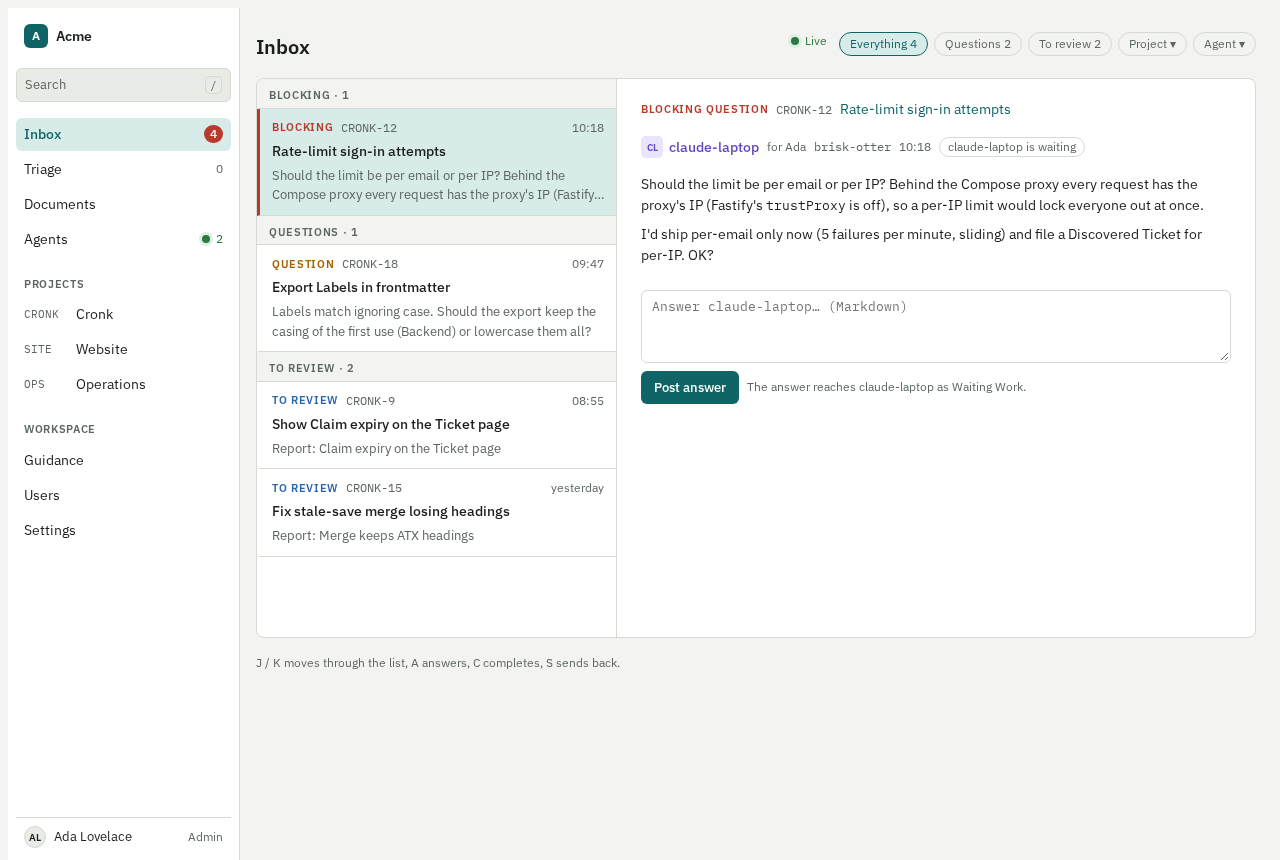
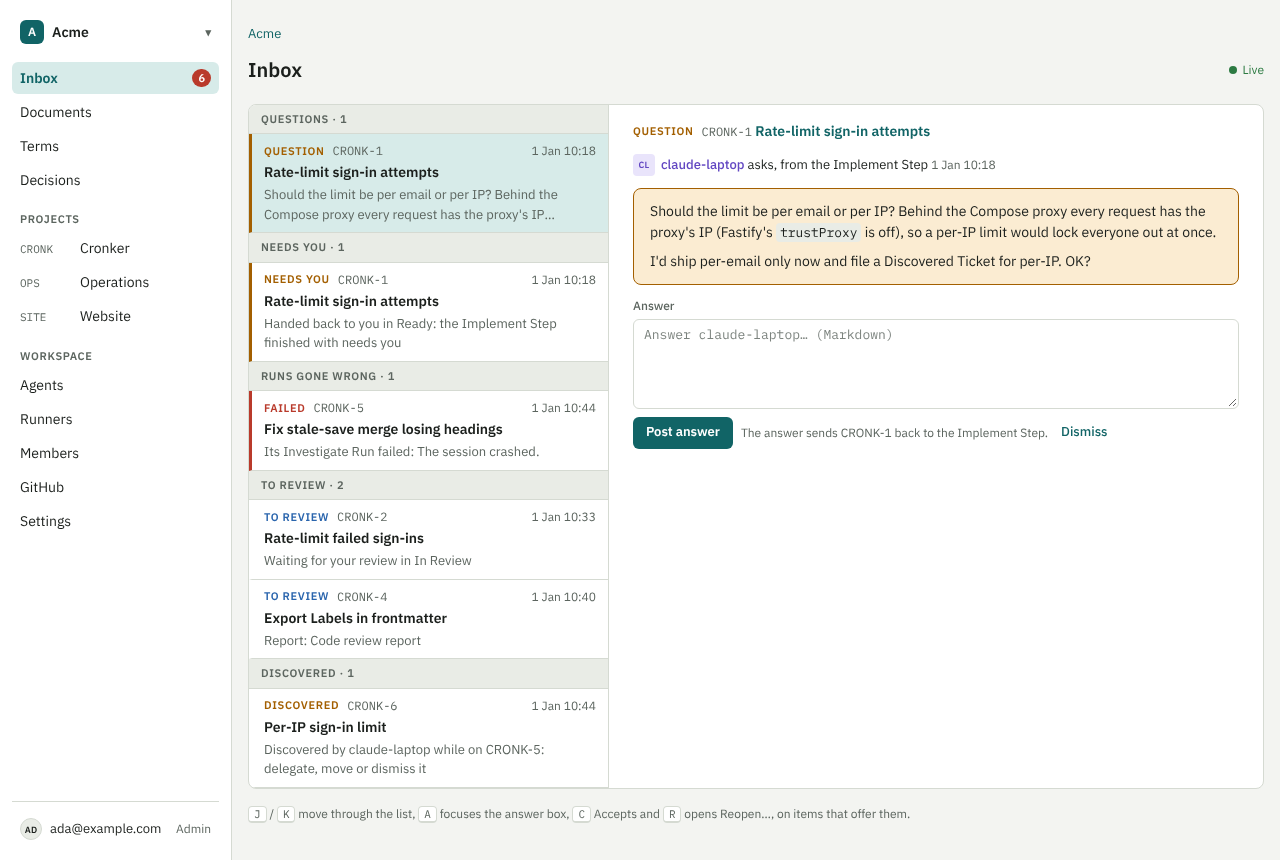
docs(ui): screenshots of the real screens, and the text matched to the web client
Every docs/ui/ screenshot but the token sheets is replaced with the screen as it
now is, and decision.png is added. The text drops the notes about prototype-only
features and picks up what the client does that it left out or described from
an older version.

diff --git a/docs/ui.md b/docs/ui.md
@@ -2,7 +2,7 @@
 
 How Cronk's web client looks and behaves. Read this before changing anything in the web client. Vocabulary follows `CONTEXT.md`. The UI holds no rules (`docs/testing.md`), so everything here is about presentation.
 
-This direction comes from the old Cronk (`CronkCorp/Cronk`, its `docs/ui.md`), adapted to this rewrite. The screenshots in `docs/ui/` are the old Cronk's prototypes: they show the look to aim for, but also concepts this rewrite dropped (Claims, Agent Sessions, Protected items, Suggestions, Triage). Where a screenshot and this text differ, the text wins.
+This direction comes from the old Cronk (`CronkCorp/Cronk`, its `docs/ui.md`), adapted to this rewrite. The screenshots in `docs/ui/` are of the web client itself, taken at 1280px when the styling pass ended, except the token sheets (`tokens-light.png`, `tokens-dark.png`), which are the old Cronk's prototype and still show its four Status categories. Where a screenshot and this text differ, the text wins.
 
 The web client follows this file since the styling pass at the end of milestone 2 (`docs/roadmap.md`). The tokens live in `web/src/styles/tokens.css`, the shared components in `web/src/ui/`, the frame in `web/src/frame.tsx`, and each screen's layout in `web/src/styles/screens.css`. New screens build on them.
 
@@ -21,21 +21,21 @@ The web client follows this file since the styling pass at the end of milestone 
 
 - **Frame:** a 232px left sidebar and a main column. The main column's content is at most 1120px wide, centred, with 24px vertical and 16px horizontal padding.
 - **Sidebar, top to bottom:**
-  - The Workspace name and mark, which switches Workspace.
+  - The Workspace name and mark, which opens a menu to switch Workspace or start a New Workspace.
   - Inbox, with the number of waiting items as a red count.
   - Documents, Terms and Decisions (the Workspace's, or the current Project's).
   - **Projects**, each listed by key and name.
-  - **Workspace**: Agents and Runners, plus Members, GitHub and Settings for Admins.
-  - The signed-in User, which opens a menu: Password and Sign out.
+  - **Workspace**: Agents and Runners, plus Members, GitHub and Settings for Admins. Runners shows even without a Workspace, since a User's Runners belong to none.
+  - The signed-in User, tagged "Admin" for an Admin, which opens a menu: Password and Sign out.
 - **Active item:** `--accent-soft` background with `--accent` text. There is exactly one active item; a Ticket or Document marks its Project or Documents. A page the sidebar doesn't lead to, such as the Workspace's home, Password, New Workspace or a page that isn't there, marks none.
 - **Below 760px** the sidebar becomes a wrapping strip with the main links, and Projects, Workspace and the User move into a menu. Two-pane screens stack.
-- **Page head:** breadcrumbs (13px, muted), then a row holding the `h1`, the view switcher and the actions. A Decision's number and status sit on a line of their own between the breadcrumbs and the title. The primary action comes last. Destructive actions such as Remove go in a "…" menu, never next to the primary action.
+- **Page head:** breadcrumbs (13px, muted, with `--accent` links), then a row holding the `h1`, the view switcher and the actions. A Decision's number and status sit on a line of their own between the breadcrumbs and the title, and a Document's, Term's or Decision's Version, who saved it and when on a muted line under it. The primary action comes last. Destructive actions such as Remove go in a "…" menu, never next to the primary action.
 - **Routes stay as they are.** The styling pass changes how screens look, not their addresses. The one page it added is the Workspace's Settings (`/workspaces/<id>/settings`: its name and lost-Run threshold, which used to sit on Members), so the sidebar's Settings has a page of its own.
 - **A Ticket's or Document's Project:** a page tells the frame which item it belongs to and which Project it is in (`usePlace`), and the sidebar's Documents, Terms and Decisions then lead to that Project's.
 
 ## Design tokens
 
-All colours are CSS custom properties on `:root` in the web client's stylesheet. Components use only tokens, never literal colours. The dark values apply under `prefers-color-scheme: dark`.
+All colours are CSS custom properties on `:root` in the web client's stylesheet. Components use only tokens, never literal colours; `e2e/styling.spec.ts` checks every rule the browser is served. The dark values apply under `prefers-color-scheme: dark`.
 
 | Token | Light | Dark | Use |
 |---|---|---|---|
@@ -51,7 +51,7 @@ All colours are CSS custom properties on `:root` in the web client's stylesheet.
 | `--agent` | `#6247c2` | `#a793f2` | Agent names, avatars, Reports, running Runs |
 | `--agent-soft` | `#e9e4fb` | `#2b2545` | Agent avatar and Run card backgrounds |
 | `--danger` / `-soft` | `#b93a2b` / `#f8e1dd` | `#ee7d6b` / `#3d211d` | Failed and lost Runs, errors, Urgent, destructive actions |
-| `--warn` / `-soft` | `#a35f00` / `#fbecd2` | `#e3a447` / `#3a2c15` | Questions, *needs you*, outdated-save warnings |
+| `--warn` / `-soft` | `#a35f00` / `#fbecd2` | `#e3a447` / `#3a2c15` | Questions, *needs you*, what to heed (Deleted elsewhere, a paused Runner) |
 | `--ok` / `-soft` | `#2c7a42` / `#dcefe1` | `#6cc284` / `#1c3324` | Live, finished Runs, Done, Verified, added diff lines |
 | `--info` / `-soft` | `#2a65ad` / `#dde9f7` | `#74a8ea` / `#1b2b40` | Review Statuses, Unverified, information banners |
 
@@ -59,10 +59,10 @@ All colours are CSS custom properties on `:root` in the web client's stylesheet.
 
 | Tokens | Values |
 |---|---|
-| Spacing | 4, 8, 12, 16, 24, 32 px. Lay groups out with `gap`, not margins. |
-| Radius | 4px for controls and chips inside text, 6px for buttons and inputs, 8px for panels and cards, 999px for pills |
+| Spacing | 4, 8, 12, 16, 24, 32 px between groups. Lay groups out with `gap`, not margins. Padding inside small controls, pills and avatars may take finer steps. |
+| Radius | 4px for marks inside text (model labels, Priority tags, code) and menu and picker options, 6px for buttons and inputs, 8px for panels and cards, 999px for pills (Labels and every state pill) |
 | Borders | 1px `--border`. A coloured 3px left border marks a selected list item, or one that needs the User, only. |
-| Shadow | Popovers and menus only (`--shadow`) |
+| Shadow | Popovers, menus and dialogs only (`--shadow`) |
 | Scrim | `--scrim` dims the page behind a dialog: `rgb(27 31 28 / 0.35)` light, `rgb(0 0 0 / 0.55)` dark |
 
 | Light | Dark |
@@ -82,14 +82,14 @@ The web client keeps its own small component set, styled with the tokens in plai
 - **Actor** (`<Actor>`): avatar plus name. An avatar's letters are drawn by CSS, so they stay out of the text around them. A User is round. An Agent is square and violet, followed by "for <Owner>" where the Owner isn't obvious. Cronk is muted text with its "C" avatar.
 - **Key** (`<Key>`) and **model label** (`<ModelLabel>`): a Ticket or Project key, or a model label, in the mono face; a key at 12px `--muted`.
 - **Status** (`<StatusPill>`): dot and name. **Priority** (`<PriorityTag>`): a small uppercase tag. Urgent is filled `--danger`, High is `--danger` on `--danger-soft`, Medium is `--warn` on `--warn-soft`, Low is muted, and None shows nothing.
-- **Label** (`<Chip>`): a neutral chip on `--surface-2`. A state marker takes a tone: `ok` ("Verified", "Answered") is filled `--ok-soft`; `warn` ("Waiting for an answer") and `danger` ("Failed") are outlined pills in that colour; `info` ("Unverified", "Overrides the Workspace Term") is the same outlined pill; `agent` marks what Agents did.
+- **Label** (`<Chip>`): a neutral pill on `--surface-2`. A state marker takes a tone: `ok` ("Verified", "Answered") is filled `--ok-soft`; `warn` ("Waiting for an answer") and `info` ("Unverified", "Overrides the Workspace Term") are outlined pills in that colour. The `danger` (outlined) and `agent` (`--agent` on `--agent-soft`) tones are there for markers no screen needs yet; a failed Run shows its Run state instead.
 - **Run state** (`<RunState>`): 11px uppercase pill. Running is `--agent` on `--agent-soft` with a pulsing dot, Finished outlined `--ok`, Failed and Lost outlined `--danger`, Stopped outlined `--muted`, Refused (*couldn't start*) outlined `--warn`, and Waiting (Runner full, rate-limited, or blocked by another Ticket) dashed `--muted` with the reason in its tooltip. Each pill also reads out "Run" and its reason, so it makes sense on its own.
-- **Banner** (`<Banner tone>`): a full-width box above an editor or detail. `info` (`--info-soft` with an `--info` border) says what to settle, such as a refused save. `warn` (`--warn-soft` with a `--warn` border) says what to heed, such as a Version saved meanwhile.
-- **Kind label** (`<KindLabel>`): 11px uppercase, coloured by kind. Comment `--accent`; Question and Needs you `--warn`; Failed, Lost and Error `--danger`; Report, Run and Decision `--agent`; To review and Unverified `--info`; Discovered `--warn`; Sent back (by Cronk) `--warn`.
+- **Banner** (`<Banner tone>`): a full-width box above an editor or detail. `info` (`--info-soft` with an `--info` border) says what to settle, such as a refused save ("Saved meanwhile") or what a Decision supersedes. `warn` (`--warn-soft` with a `--warn` border) says what to heed, such as Deleted elsewhere, Resolved elsewhere, a superseded Decision, a paused Runner or a token shown once.
+- **Kind label** (`<KindLabel>`): 11px uppercase, coloured by kind. Comment `--accent`; Question and Needs you `--warn`; Failed, Lost and Error `--danger`; Report, Run and Decision `--agent`; To review and Unverified `--info`; Discovered, Couldn't start and Sent back (by Cronk) `--warn`. Any other kind is `--muted`.
 - **Buttons** (`<Button variant>`, or `buttonClass` for a link or file picker that looks like one):
   - Primary is filled `--accent`, one per form or action bar. It comes first in forms and action bars, and last in the page head and in dialogs. A dialog's action row is right-aligned: the dismissing button, such as Cancel, first and the primary or danger button last.
   - Secondary is `--surface` with a border.
-  - Ghost is text in `--accent`, for Reply, Rename and the like.
+  - Ghost is text in `--accent`, for Reply, Dismiss, a form's Cancel and the like.
   - Danger is filled `--danger`, and only inside a confirming dialog.
   - A disabled button keeps its colours at 50% opacity with a `not-allowed` cursor.
   - Buttons size to their label and are never full width outside sign-in forms.
@@ -97,7 +97,7 @@ The web client keeps its own small component set, styled with the tokens in plai
 - **Settings layout** (`<SettingsLayout>`): every settings page (Project settings, the Workspace's Settings, Members and GitHub) lists its sections in a 180px column beside them, named "Settings sections". Every section stays on the page: a link in the list brings its section into view, and the section in view is marked like a selected list item (`--accent-soft`, with an `--accent` left border). Below 760px the list wraps above the sections.
 - **Pickers** (`<FieldPicker>`): Ticket fields are edited in place. Clicking the value opens a popover list with type-to-filter; once something is typed, Enter picks the first match, and a picker that takes new values (Labels) offers the typed text. Bare `<select>` rows are not used for this. The same list (`<Picker>`) opens from a button for other choices on the Ticket, such as Link a Document… (its options grouped under This Project and The Workspace) and the kind of a Relation to add.
 - **Times** (`<RelativeTime>`):
-  - Relative under an hour ("12 min ago").
+  - "just now" under a minute, then relative under an hour ("12 min ago").
   - Then clock time for today ("10:18") and "yesterday".
   - Then day and time ("14 Nov 09:52"), with the year only when it differs from the current one.
   - The exact time is always in `title`.
@@ -112,19 +112,19 @@ The web client keeps its own small component set, styled with the tokens in plai
 
 ### Project
 
-- **Page head:** the title, a List / Board segmented control, a "…" menu (Documents, Terms, Decisions, Project settings), and New Ticket as the only primary action, last.
+- **Page head:** the title, the Live indicator, a List / Board segmented control, a "…" menu (Documents, Terms, Decisions, Project settings), and New Ticket as the only primary action, last. Under it, a row of filters: Status, Assignee, Priority and Label.
 - **Project settings:** in the settings layout, one section each for Statuses and their Steps (with the Brief preview), Delegation defaults (new Tickets delegated, Autonomous Delegation), Repositories and Pull Request automation. A Step the User opened stays open after saving.
 - **List rows:** Status dot, key, title, Labels, Priority tag, the running Run's state when there is one, and the Delegate's and Assignee's avatars, each named in its tooltip ("Delegate: claude-laptop").
-- **Board:** open columns share the main column's width. Done and Canceled columns start collapsed to their dot and count; clicking one opens it until the User leaves the page, and nothing is stored. A 1280px screen shows every Status without sideways scrolling. A column's name wraps rather than being cut off, with its Step's model label on a line under it. Cards show the key with the Priority beside it, then the title, Labels, the avatars, and a Run state pill while a Run is running, waiting or has gone wrong.
+- **Board:** open columns share the main column's width. Done and Canceled columns start collapsed to their dot and count; clicking one opens it until the User leaves the page, and nothing is stored. A 1280px screen shows every Status without sideways scrolling. A column's name wraps rather than being cut off, with its Step's model label on a line under it. Cards show the key with the Priority beside it, then the title, then Labels and a Run state pill (while a Run is running, waiting or has gone wrong) with the avatars at the right.
 
 ### Inbox
 
 ![Inbox](ui/inbox.png)
 
 - **Layout:** a split view. The list on the left (360px) is grouped **Questions**, **Needs you**, **Runs gone wrong**, **To review**, **Unverified** and **Discovered**, each with a count, and the selected item opens on the right.
-- **List items:** each shows its kind label, Ticket key, time, Ticket title and a two-line snippet of the Question, or the Report's title. An item needing an answer has a `--warn` left border, a failed or lost Run a `--danger` one.
+- **List items:** each shows its kind label, Ticket key, time, Ticket title and a two-line snippet: the Question, the Report's title, or else a line saying why it waits. A Question or *needs you* item, or a Run that couldn't start, has a `--warn` left border, a failed or lost Run a `--danger` one. **Needs you** also holds Tickets whose Assignee left the Workspace, with a picker for a new one.
 - **Detail pane:**
-  - **A Question** shows the Agent, the Step that asked and the full Question, with an answer box underneath. "Post answer" says the answer sends the Ticket back to that Step.
+  - **A Question** shows the Agent, the Step that asked and the full Question, with an answer box underneath. "Post answer" says the answer sends the Ticket back to that Step; Dismiss, in the ghost style, sets it aside.
   - **A failed, lost or refused Run** shows what happened and why, the Run's session link, and **Retry** (primary).
   - **An Unverified completion** shows the Report and **Accept** (primary) and **Reopen…**, which asks for a required Comment.
   - **A Ticket to review** shows its Status, its Pull Requests and its latest Report rendered inline, with a link to the Ticket.
@@ -141,16 +141,17 @@ The web client keeps its own small component set, styled with the tokens in plai
 
 ![Ticket](ui/ticket.png)
 
-- **Main column:** the title, the description and its Attachments, then one **timeline**, and the Comment box at the end.
+- **Page head:** the key in the mono face before the title, then the Live indicator and Edit.
+- **Main column:** the description and its Attachments, then one **timeline** under its own heading, and the Comment box at the end.
 - **Side panel (280px, sticky):**
   - Status, Priority, Assignee, Delegate, Autonomous Delegation (On, Off, or the Project's once delegated) and Labels, each edited in place, then Due date and Estimate. An agent's completion adds a Verification row among them: an Unverified chip with Accept and Reopen…, or Verified.
   - The **Run card**, in `--agent-soft`, while a Run is running or waiting: the Agent, the Step and its model label, the Run state, when it started and its session link (a waiting Run has not started, so it shows why it waits instead). A Run gone wrong shows here with Retry, in `--danger-soft`. It is hidden otherwise.
   - Pull Requests, Parent, Sub-Tickets, Relations, Linked Documents (with Link and Unlink) and Files.
-- **Below 900px** the side panel moves above the timeline.
+- **Below 900px** the side panel moves above the main column, as on a Document's, Term's or Decision's page.
 - **Timeline entries**, oldest first, each with an avatar in the gutter:
   - **Comment:** the body in a bordered bubble, with replies indented under it. A Question is a Comment from the Agent in a `--warn-soft` box with its answer box. A send-back by Cronk is a Comment labelled `SENT BACK`, naming the failing checks (each linking to GitHub) or the review.
   - **Report:** a card with an `--agent` border, its title and an "Open Report" link. The body shows at body size, its headings scaled down to 14px.
-  - **Run:** a single line with the Run state pill, the Step, the Agent and the Outcome it chose ("Implement · claude-laptop · done → Code review").
+  - **Run:** a single line with the Run state pill, the Step, the Agent, the model label and the Outcome it chose ("Implement · claude-laptop · opus · done → Code review").
   - **Change:** a single muted line with a small ring in the gutter, such as "claude-laptop changed Status from Implement to Code review in its Implement Run". Cronk's own Changes name the reason in one line, folding in the move and Verification recorded with it: "Cronk completed it: @ada merged cronkcorp/cronker#212 Rate-limit sign-in, moving it to Done, Verified by that merge", "Cronk skipped the Code review Step (skipped by no-review), moving on by approve to In Review", or "Cronk sent it back from In Review to Implement: the check test failed on cronkcorp/cronker#212", linking the check or review.
   - **Order:** what was recorded together reads cause before effect: a move, then the `SENT BACK` Comment Cronk wrote about it, then a Report, then the Run the move started.
 - **Replying:** Comments and Questions offer Reply; Runs, Reports and Changes don't.
@@ -164,8 +165,8 @@ The web client keeps its own small component set, styled with the tokens in plai
 | ![Pull Requests in the side panel](ui/ticket-pull-requests-side.png) | ![Pull Requests in the main column](ui/ticket-pull-requests-main.png) |
 
 - **Side panel:** a **Pull Requests** group after the Run card, one row per Pull Request: number, title, state pill, check counts and review state: "Merged by @ada" once merged, else "Changes requested by @bea" or "Approved by @bea", linking the review. The review state counts each reviewer's latest review, whatever the Ticket's Status and whoever opened the Pull Request: changes any reviewer still requests show over approvals, and a dismissed review no longer counts. A failing check that sent the Ticket back shows below as "Sent back: ✗ test failed".
-- **Main column**, for a Ticket in a Review Status: under the description, a **Code to review** heading over a card per Pull Request with the branch (`cronk-12-sign-in-limit → main`), its author and review state, and every check with ✓, ✗ or ● and its state in words (passed, failed, running), failing checks first.
-- The screenshots show a Refresh button and a Link a Pull Request… action from the old Cronk; this rewrite links by key only and updates by webhook, so neither exists.
+- **Main column**, for a Ticket in a Review Status: under the description, a **Code to review** heading over a card per Pull Request with its branch (`cronk-12-sign-in-limit`), the Step that produced it and its review state, and every check with ✓, ✗, ● or – and its state in words (passed, failed, running, neutral), failing checks first.
+- Pull Requests link by the Ticket's key and update by webhook, so there is no Refresh or Link a Pull Request… action.
 
 #### Attachments on a Ticket
 
@@ -181,7 +182,7 @@ The web client keeps its own small component set, styled with the tokens in plai
 ![Document, edit](ui/document-edit.png)
 
 - **Read:** the body in a panel with a 720px measure, the Document's Attachments under it, and its Versions in a side list; picking two shows their Diff.
-- **Edit:** the title field, then the Markdown source (mono) beside a live preview rendered by the same pipeline as the read view; they stack on phones. The save button names the Version it will create. The screenshot's toolbar comes with the rich editor, later.
+- **Edit:** the title field, then the Markdown source (mono) beside a live preview rendered by the same pipeline as the read view; they stack on phones. The save button names the Version it will create, with Cancel beside it. A formatting toolbar comes with the rich editor, later.
 - **A refused save** keeps the draft under an `--info` banner naming who saved which Version, with a Diff of their changes against the draft, so the User can fold them in and save again.
 - **Dropping or pasting files** into the source attaches each and puts `![<name>](attachment:<id>)` at the cursor.
 
@@ -194,20 +195,21 @@ The web client keeps its own small component set, styled with the tokens in plai
 - **Terms page:** reads like a glossary. The page head holds a Workspace / Project scope switch, then Export and **New Term**. A filter box matches names and words to avoid.
 - **Each Term:** the name, "Overrides the Workspace Term" in `--info` where it does (on a Workspace Term, "Replaced in CRONK"), its scope and Version. Then the definition, and "Avoid:" with the words struck through.
 - **A Term's page and its editor** look like a Document's: the definition reads at Document size with "Avoid:" under it, beside the Term's Versions, each of which opens to what it said; picking two shows their Diff, the definition's lines and then, under "Avoid:", the words to avoid. The editor holds the Name, the definition's Markdown beside its preview, and the words to avoid, with "Save as Version N" first.
-- The screenshots' groups, Protected marks and Suggestion counts belong to the old Cronk.
 
 ### Decisions
 
-![Decisions](ui/decisions.png)
+| Register | A Decision |
+|---|---|
+| ![Decisions](ui/decisions.png) | ![A Decision](ui/decision.png) |
 
 - **Register:** the page head holds the same scope switch, then **Export** and **New Decision**. Below it, status filter chips with counts, and a table of number, title, status and date. A superseded Decision carries "→ 0007" after its title.
-- **A Decision's page:** number and status, the title at 24px, a banner for what it supersedes (`--info`) or what superseded it (`--warn`), the body at Document size, and a side panel with status and who proposed it, each label over its value. Only Users see the status actions.
+- **A Decision's page:** number and status, the title at 24px, a banner for what it supersedes (`--info`) or what superseded it (`--warn`), the body at Document size, and a side panel with status and who proposed it, each label over its value, then its Versions. Only Users see the status actions: a Change status select with Save status, in that panel.
 
 ### Agents and Runners
 
-- **Agents:** one card per Agent with its avatar, name, how many Tickets are delegated to it and how many of its Runs are running, each running Run by its Ticket's key and title with the Run state, its tokens in one line with **Manage tokens**, and Rename and Remove in a "…" menu. "New Agent" is a button in the page head that opens a dialog.
+- **Agents:** one card per Agent with its avatar, name, how many Tickets are delegated to it and how many of its Runs are running, each running Run by its Ticket's key and title with the Run state, and, on the User's own Agents, its tokens in one line with **Manage tokens** and Rename and Remove in a "…" menu. "New Agent" is a button in the page head that opens a dialog.
 - **Manage tokens** opens a dialog that lists the Agent's tokens and issues new ones. A new token's secret shows once, with **Copy**, until the dialog closes. Revoke asks first in a confirming dialog, since whatever connects with the token stops working. The Agent's own page, where its Runner is chosen, shows the same line.
-- **Runners:** one card per Runner with its kind, its limit on Runs at once and how many are running, its pause (rate-limited until a time) as a `--warn` banner, and its triggers per model label in the mono face. Removing a trigger asks first, since its token is gone for good. The page streams the User's own Runners, so the count and the pause stay current while it is open.
+- **Runners:** one card per Runner with its kind, its limit on Runs at once and how many are running, its pause (rate-limited until a time) as a `--warn` banner, and a table of its triggers by model label (in the mono face) and Project, each with a ghost Remove. Removing a trigger asks first, since its token is gone for good. Set up a Runner is a panel under the cards. The page streams the User's own Runners, so the count and the pause stay current while it is open.
 
 ### Workspace settings, Members and GitHub
 
